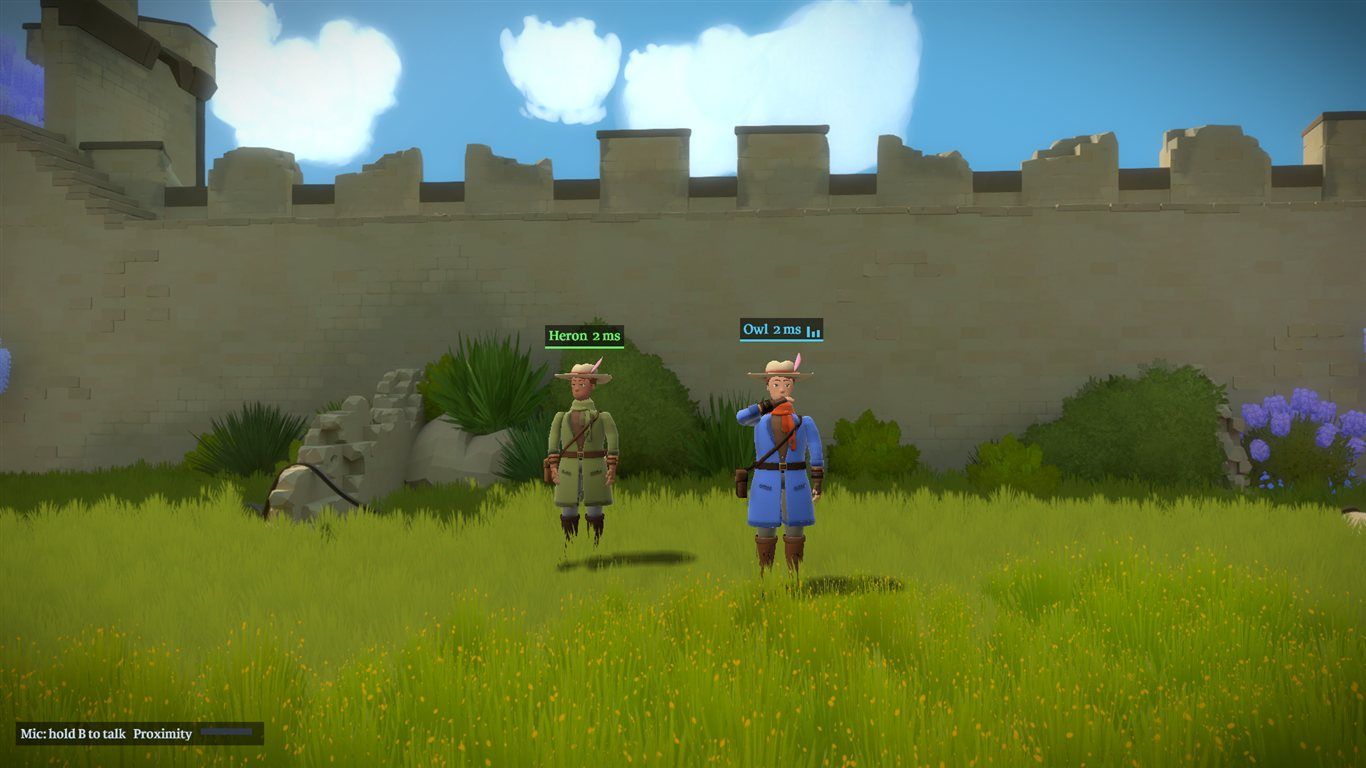
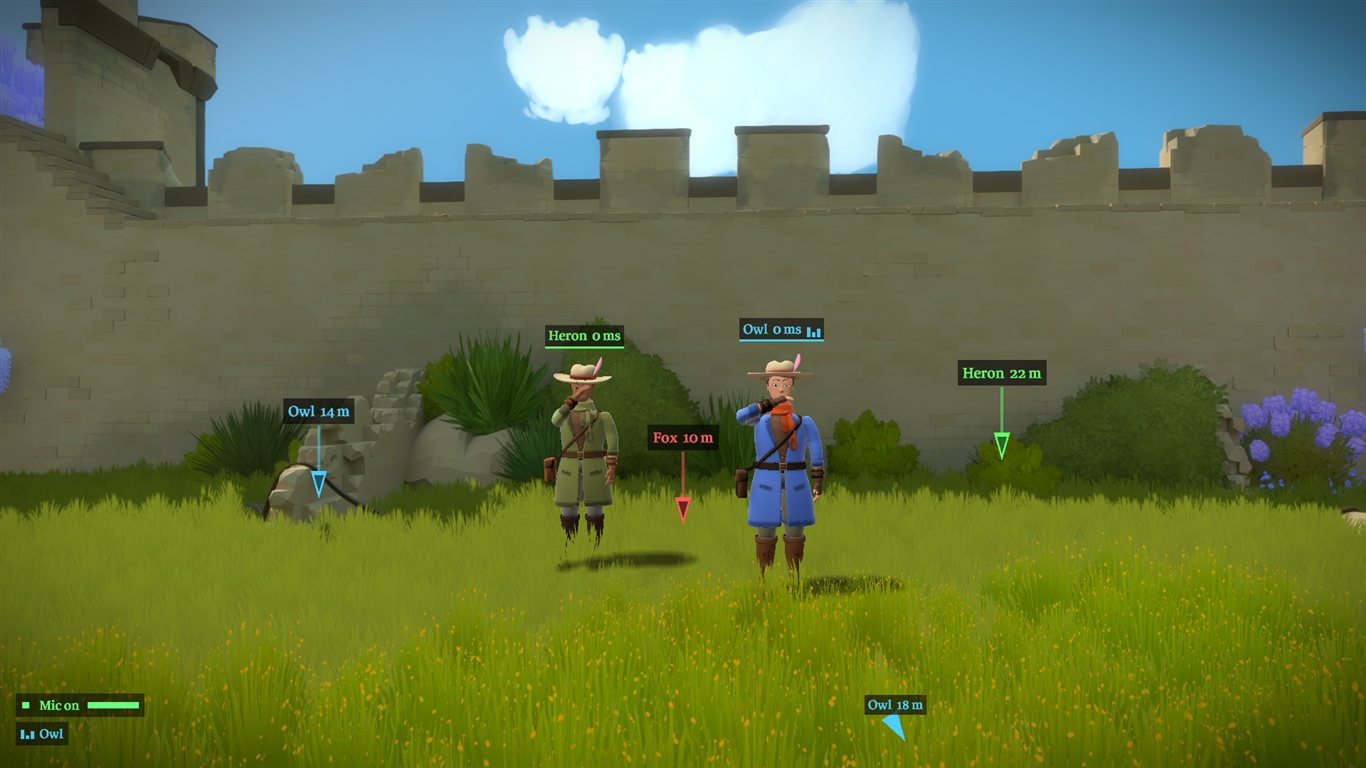
Start game stays yellow; the in-game voice display shows only what is happening
Launcher: Windows paints its own white button when a button's text is set (the lobby
relabels Start game) and when the keyboard cues change (any key press), and nothing
painted ours again (owner, 2026-11-08: still white). The button now updates with
drawing off and repaints itself. wprimary.py reads the screen itself (PrintWindow had
the window paint again and hid the white) and checks both; mutant BUTTON_SELF_PAINT.

Game: the permanent "Mic: hold B to talk" is gone. The lower left shows my microphone
while it is live (Open mic for as long as that is the mode, lit while my voice goes out;
Mic on only while push to talk is held; the channel when it is not Proximity) and a row
for each player I can hear talking (their voice reaches me: proximity or radio above a
whisper, not muted), in their colour; nothing otherwise. Rules in proxy/ui/voice_hud.h,
make -C proxy/ui test with mutants ALWAYS_HINT and HEAR_ALL; voicestat reports
hud_talkers and qa.sh voice checks the display in every phase.

Tests: since 6696901 the teleport hold let go of a player held in the air far away (the
game resets them), which broke the voice test's far placements; `hover ... firm` keeps
the old hold for those tests (voice, radio), the default still lets go (qa.sh hover).
Showcase: the camera player talks with a test voice (never this PC's microphone);
social, voice and HUD pictures retaken; captions say what the display shows.

Claude-Session: https://claude.ai/code/session_01LR8ikgw44dJVTkNefQVF8E

diff --git a/proxy/social.cpp b/proxy/social.cpp
@@ -1,5 +1,8 @@
 #include "radio/radio.h"
 #include "bindings.h"
+#include "ui/voice_hud.h"
+#include "voice/voice.h"
+std::vector<wvoice::SpeakerStat> VoiceSnapshot();      // voice_audio.cpp: what the mixer heard from each player
 // See social.h.
 #define WIN32_LEAN_AND_MEAN
 #include <windows.h>
@@ -105,7 +108,7 @@ void AddPenPoint(const float p[3], ULONGLONG now) {
     t->pts.insert(t->pts.end(), p, p + 3); g_unsent.insert(g_unsent.end(), p, p + 3); TrimPlayer(CoopMyId());
     if (g_unsent.size() >= 36 || now - g_sentAt > 120) FlushStroke(false, now);
 }
-unsigned g_speakDrawn = 0; bool g_micHudDrawn = false;      // voice: speaker marks over players and the microphone indicator drawn in the last frame (for the tests)
+unsigned g_speakDrawn = 0, g_hudTalkers = 0; bool g_micHudDrawn = false;      // voice: speaker marks over players and the microphone indicator drawn in the last frame (for the tests)
 unsigned g_dotsDrawn = 0, g_bubblesDrawn = 0, g_marksDrawn = 0, g_arrowsDrawn = 0;      // what the last frame drew (for the tests)
 
 std::string NameOf(unsigned id) {
@@ -174,6 +177,7 @@ void Bubbled(float cx, float bottom, const std::vector<std::string>& lines, bool
 
 unsigned SocialSpeakDrawn() { return g_speakDrawn; }
 bool SocialMicHudDrawn() { return g_micHudDrawn; }
+unsigned SocialHudTalkers() { return g_hudTalkers; }
 unsigned SocialInkVerts(const float cam[3], std::vector<LineVert>& out, size_t maxVerts) {      // every stroke as ribbons in the world, turned to face the camera: the line pipeline draws them hidden by walls
     Lock l; unsigned segs = 0; if (GetCfg().noDrawDraw) { g_segsDrawn = 0; return 0; }
     for (const auto& s : g_strokes) {
@@ -310,7 +314,7 @@ void SocialFrame(float W, float H, const float* cam, const float* ang) {
     }
     g_marks.erase(std::remove_if(g_marks.begin(), g_marks.end(), [&](const Mark& m) { return now - m.at > kMarkMs; }), g_marks.end());
     for (auto it = g_bubbles.begin(); it != g_bubbles.end();) { if (it->second.until < now) it = g_bubbles.erase(it); else ++it; }
-    g_dotsDrawn = g_bubblesDrawn = g_marksDrawn = g_arrowsDrawn = 0; g_speakDrawn = 0; g_micHudDrawn = false;
+    g_dotsDrawn = g_bubblesDrawn = g_marksDrawn = g_arrowsDrawn = 0; g_speakDrawn = 0; g_hudTalkers = 0; g_micHudDrawn = false;
     if (GamePaused()) return;
     float k = std::min(W / 1280.f, H / 900.f);
     memcpy(g_camNow, cam, 12); g_angNow[0] = ang[0]; g_angNow[1] = ang[1]; g_scrW = W; g_scrH = H;
@@ -376,15 +380,23 @@ void SocialFrame(float W, float H, const float* cam, const float* ang) {
         if (rp.radioTx && cfg.RadioOn()) UiText(sx + 30 * kk, sy + 4 * kk, "RADIO", Rgba(1,.7f,.3f), kk*.7f);
         UiPlayerAnchorEnd(); ++g_speakDrawn;
     }
-    if (cfg.voiceMode != 0) {      // my own microphone: what the key does, and a bar that follows the level while it is open
-        bool talk = VoiceSpeaking(); int lvl = VoiceMicLevel(); char b[80];
-        char chn[64]; VoiceChannelText(chn, sizeof chn);
-        char pre[48]; const char* padKey = PadVoiceButtonName(); std::string key = guide::DisplayKey(cfg.keyVoice ? cfg.keyVoice : cfg.keyVoiceAlt);
-        if (talk) snprintf(pre, sizeof pre, "Mic: talking"); else if (VoiceModeNow() == 2) snprintf(pre, sizeof pre, "Mic: hold %s to talk", padlayer::Hint(PadGlyphs(), key.c_str(), padKey)); else snprintf(pre, sizeof pre, "Mic: open");
-        snprintf(b, sizeof b, "%s   %s", pre, chn);
-        float tw = UiTextWidth(b, 0.8f * k), bx = 24 * k, by = H - 50 * k;
-        UiRect(bx - 6 * k, by - 4 * k, tw + 90 * k, UiLineHeight(0.8f * k) + 8 * k, Rgba(0, 0, 0, 0.5f)); UiText(bx, by, b, talk ? Rgba(0.5f, 1, 0.6f, 1) : Rgba(0.8f, 0.85f, 0.95f, 1), 0.8f * k);
-        UiRect(bx + tw + 10 * k, by + 3 * k, 60 * k, 8 * k, Rgba(0.2f, 0.22f, 0.3f, 0.9f)); UiRect(bx + tw + 10 * k, by + 3 * k, 60 * k * std::min(1.0f, lvl / 600.0f), 8 * k, talk ? Rgba(0.4f, 1, 0.5f, 1) : Rgba(0.5f, 0.55f, 0.7f, 1)); g_micHudDrawn = true;
+    {   // the voice display, lower left: my microphone while it is live and the players I can hear talking; nothing when nothing happens (ui/voice_hud.h)
+        bool talk = VoiceSpeaking(); char chn[64]; VoiceChannelText(chn, sizeof chn); std::vector<wvhud::Heard> heard;
+        for (const auto& s : VoiceSnapshot()) { wvhud::Heard h; h.id = s.id; h.name = NameOf(s.id); h.talking = s.talking; h.prox = s.prox; h.radio = s.radio; h.playerVolume = VoiceGetPlayerVolume(s.id); heard.push_back(h); }
+        std::vector<wvhud::Row> rows = wvhud::Rows(cfg.voiceMode != 0 ? VoiceModeNow() : 0, talk, chn, heard);
+        float sk = 0.8f * k, lh = UiLineHeight(sk), bx = 24 * k, by = H - 50 * k; int lvl = VoiceMicLevel();
+        for (size_t n = rows.size(); n-- > 0; by -= lh + 14 * k) {      // bottom up: my microphone lowest, the players above it
+            const wvhud::Row& r = rows[n]; float tw = UiTextWidth(r.text.c_str(), sk), lead = 22 * k, extra = r.me ? 70 * k : 0;
+            UiRect(bx - 6 * k, by - 4 * k, lead + tw + extra + 12 * k, lh + 8 * k, Rgba(0, 0, 0, 0.5f));
+            if (r.me) {      // a dot for the microphone (green while my voice goes out), the text, and the level while it is live
+                auto c = r.lit ? Rgba(0.4f, 1, 0.5f, 1) : Rgba(0.8f, 0.85f, 0.95f, 1); UiRect(bx + 2 * k, by + lh / 2 - 4 * k, 8 * k, 8 * k, c); UiText(bx + lead, by, r.text.c_str(), c, sk);
+                float lx = bx + lead + tw + 10 * k; UiRect(lx, by + lh / 2 - 4 * k, 60 * k, 8 * k, Rgba(0.2f, 0.22f, 0.3f, 0.9f)); UiRect(lx, by + lh / 2 - 4 * k, 60 * k * std::min(1.0f, lvl / 600.0f), 8 * k, c); g_micHudDrawn = true;
+            } else {      // three bars moving in the player's colour, then the name
+                float col[3]; PlayerColor(r.id, col);
+                for (int b = 0; b < 3; ++b) { float ph = float(now % 500) / 500.0f * 6.2831853f + b * 2.1f, hgt = (4 + 8 * (0.5f + 0.5f * sinf(ph))) * k; UiRect(bx + b * 6 * k, by + lh / 2 + 6 * k - hgt, 4 * k, hgt, Rgba(col[0], col[1], col[2], 0.95f)); }
+                UiText(bx + lead, by, r.text.c_str(), Rgba(col[0], col[1], col[2], 1), sk); ++g_hudTalkers;
+            }
+        }
     }
     for (const auto& rp : rem) {      // the name of the emote a player is playing, over their head
         auto it = g_remoteEmotes.find(rp.id); if (it == g_remoteEmotes.end() || !it->second.id || !EmoteAlive(it->second.id,now-it->second.start) || rp.ageMs > 2000) continue;

diff --git a/tools/win/wvoice.py b/tools/win/wvoice.py
@@ -34,6 +34,7 @@ def vstat(d):
     if not b: return None
     m = re.match(r'voicestat: mode (\d) ptt (\d+) transmitting (\d+) sent (\d+) captured (\d+) received (\d+) played (\d+) game_volume ' + F + r' hud_speakers (\d+) hud_mic (\d)(?: channel (\w+) to (\d+))?', b[0])
     r = dict(mode=int(m[1]), ptt=int(m[2]), transmitting=int(m[3]), sent=int(m[4]), received=int(m[6]), game_volume=float(m[8]), hud_speakers=int(m[9]), hud_mic=int(m[10]), channel=m[11], to=int(m[12] or 0), sp={})
+    t = re.search(r'hud_talkers (\d+)', b[0]); r['hud_talkers'] = int(t[1]) if t else -1      # players listed in the voice display (who I hear talking)
     for l in b[1:]:
         m = re.match(r'voicestat: speaker (\d+) talking (\d) prox ' + F + ' radio ' + F + ' pan ' + F + ' rms ' + F + ' tone ' + F + ' ' + F + ' ' + F + r' packets (\d+) concealed (\d+) dropped (\d+)(?: channel (\d+))?', l)
         r['sp'][int(m[1])] = dict(talking=int(m[2]), prox=float(m[3]), radio=float(m[4]), pan=float(m[5]), rms=float(m[6]), tone=[float(m[7]), float(m[8]), float(m[9])], packets=int(m[10]), concealed=int(m[11]), channel=int(m[13] or 0))
@@ -57,7 +58,7 @@ def expect(d, beta):
 def place(d, beta_deg):
     """B stays; A is put d metres from B at beta degrees to B's right; the real positions and heading are read back from both games"""
     (bx, by, bz), (bth, bph) = B.camera(); beta = math.radians(beta_deg); ang = bth - beta
-    send(da, ['hover %.3f %.3f %.3f %.4f 0' % (bx + d * math.cos(ang), by + d * math.sin(ang), bz, bth)], 3.0)      # held in the air where it is put: no ground is needed that far away
+    send(da, ['hover %.3f %.3f %.3f %.4f 0 firm' % (bx + d * math.cos(ang), by + d * math.sin(ang), bz, bth)], 3.0)      # held in the air where it is put: no ground is needed that far away
     (ax, ay, az), _ = A.camera(); (bx, by, bz), (bth, bph) = B.camera()
     dx, dy, dz = ax - bx, ay - by, az - bz; dist = math.sqrt(dx * dx + dy * dy + dz * dz)
     bearing = math.atan2(dx * math.sin(bth) - dy * math.cos(bth), dx * math.cos(bth) + dy * math.sin(bth))
@@ -72,6 +73,8 @@ if mode == 'open':
     check('   no radio yet, and the voice is to the right', sp and sp['radio'] == 0 and abs(sp['pan'] - e[2]) < 0.08 and sp['pan'] > 0.5, sp and (sp['radio'], round(sp['pan'], 2), round(e[2], 2)))
     check('   the whole voice is there (120 Hz, 1 kHz, 5.5 kHz) and loud enough', sp and sp['tone'][0] > 0.01 and sp['tone'][1] > 0.01 and sp['tone'][2] > 0.4 * sp['tone'][1] and sp['rms'] > 0.01, sp and ([round(t, 3) for t in sp['tone']], round(sp['rms'], 3)))
     check('   B sees A as speaking (the flag in A\'s presence)', speaking_seen_by_b() == 1)
+    sa = vstat(da)
+    check('   the voice display: B lists A as talking (B\'s own voice is off: no microphone row); A shows its open mic', s and s['hud_talkers'] == 1 and s['hud_mic'] == 0 and sa and sa['hud_mic'] == 1 and sa['hud_talkers'] == 0, s and sa and (s['hud_talkers'], s['hud_mic'], sa['hud_mic'], sa['hud_talkers']))
     d, beta = place(12.0, -90); time.sleep(1.5); s = vstat(db); e = expect(d, beta); sp = s['sp'].get(1) if s else None
     check('2. 12 m to the left: quieter and in the left ear', sp and abs(sp['prox'] - e[0]) < 0.03 and sp['pan'] < -0.5 and sp['radio'] == 0, sp and (round(sp['prox'], 3), round(e[0], 3), round(sp['pan'], 2), 'd=%.2f' % d))
     d, beta = place(28.0, 0); time.sleep(1.5); s = vstat(db); e = expect(d, beta); sp = s['sp'].get(1) if s else None
@@ -84,6 +87,7 @@ if mode == 'open':
     if RADIO_RANGE > 0:
         d, beta = place(RADIO_RANGE * 1.6, 0); time.sleep(1.5); s = vstat(db); sp = s['sp'].get(1) if s else None; e = expect(d, beta)
         check('5. beyond the radio range (%d m) nothing is heard' % RADIO_RANGE, sp and sp['radio'] < 0.02 and sp['prox'] == 0, sp and (round(sp['radio'], 3), 'd=%.1f' % d))
+        check('   and B\'s voice display lists nobody (A talks, out of earshot)', s and s['hud_talkers'] == 0, s and s['hud_talkers'])
 elif mode == 'channels':
     def hear(label, want_channel, d_m, **kw):
         """what B's mixer makes of A: its channel, the gains, the pan and the tones, at d_m metres"""
@@ -116,13 +120,19 @@ else:
     d, beta = place(5.0, 90); time.sleep(1.0); s0 = vstat(db); sp = s0['sp'].get(1) if s0 else None
     check('1. push to talk, key not held: nothing is sent', not sp or (sp['talking'] == 0 and sp['packets'] == 0), sp and (sp['talking'], sp['packets']))
     check('   and B does not see A as speaking', speaking_seen_by_b() in (0, None))
+    sa = vstat(da)
+    check('   the voice display shows nothing: no "hold B to talk" on A, nobody listed on B', sa and sa['hud_mic'] == 0 and sa['hud_talkers'] == 0 and s0 and s0['hud_talkers'] == 0, sa and s0 and (sa['hud_mic'], sa['hud_talkers'], s0['hud_talkers']))
     send(da, ['key B down'], 1.2); s1 = vstat(db); sp = s1['sp'].get(1) if s1 else None
     check('2. key B held: B hears A', sp and sp['talking'] == 1 and sp['packets'] > 20, sp and (sp['talking'], sp['packets']))
     check('   B sees A as speaking', speaking_seen_by_b() == 1)
+    sa = vstat(da)
+    check('   while the key is held: A shows Mic on, B lists A', sa and sa['hud_mic'] == 1 and s1 and s1['hud_talkers'] == 1, sa and s1 and (sa['hud_mic'], s1['hud_talkers']))
     send(da, ['key B up'], 1.5); s2 = vstat(db); sp2 = s2['sp'].get(1) if s2 else None
     check('3. key released: the transmission ends, B stops hearing A and the speaking flag drops', sp2 and sp2['talking'] == 0 and speaking_seen_by_b() == 0, sp2 and sp2['talking'])
     p1 = sp2['packets'] if sp2 else 0; time.sleep(1.0); s3 = vstat(db)
     check('   and nothing more arrives', s3 and s3['sp'][1]['packets'] == p1, s3 and (s3['sp'][1]['packets'], p1))
+    sa = vstat(da)
+    check('   released: the display is empty again on both', sa and sa['hud_mic'] == 0 and s3 and s3['hud_talkers'] == 0, sa and s3 and (sa['hud_mic'], s3['hud_talkers']))
 if mode == 'open':
     s = vstat(db)
     if s and s['game_volume'] >= 0: check('6. game_volume is set on the game\'s Windows audio session (read back from the system)', abs(s['game_volume'] - GV) < 0.02, s['game_volume'])

diff --git a/tools/win/wprimary.py b/tools/win/wprimary.py
@@ -1,6 +1,7 @@
 # T2 check, Windows Python: the page's main button keeps its look when the focus moves. Host by the mouse as a player does (Play, Host, Direct, a click on
 # Open lobby, posted to the buttons: the real pointer is not used), then, without hovering anything, Start game must be drawn in the main buttons' yellow.
-# The click gives Open lobby the focus and the dialog keys move the default-button style to it (owner, 2026-11-08: Start game white until hovered).
+# The click gives Open lobby the focus and the dialog keys move the default-button style to it; a new label (WM_SETTEXT) and the keyboard cues (WM_UPDATEUISTATE)
+# make Windows paint its own white button over ours (owner, 2026-11-08: Start game white until hovered). Read from the screen: the window is put on top for a moment.
 # usage: wprimary.py <launcher exe> <folder>      (the folder gets a witness_coop.cfg for a Direct lobby on a free port)
 import ctypes, ctypes.wintypes as wt, os, struct, subprocess, sys, time
 exe, d = sys.argv[1], sys.argv[2]
@@ -32,12 +33,14 @@ def child(top, text):
         return True
     u.EnumChildWindows(top, cb, 0); return out[0] if out else None
 def click(h): u.PostMessageW(h, 0x0201, 1, 0x000a000a); time.sleep(0.05); u.PostMessageW(h, 0x0202, 0, 0x000a000a)
-def pixel(top, ctl, dx, dy):      # the window as it is on screen (PrintWindow, full content), at a point of the control
-    wr = wt.RECT(); u.GetWindowRect(top, ctypes.byref(wr)); w, hh = wr.right - wr.left, wr.bottom - wr.top
-    dc = u.GetWindowDC(top); mdc = g32.CreateCompatibleDC(dc); bmp = g32.CreateCompatibleBitmap(dc, w, hh); g32.SelectObject(mdc, bmp); u.PrintWindow(top, mdc, 2)
-    hdr = struct.pack('<IiiHHIIiiII', 40, w, -hh, 1, 32, 0, w * hh * 4, 0, 0, 0, 0); buf = ctypes.create_string_buffer(w * hh * 4); g32.GetDIBits(mdc, bmp, 0, hh, buf, hdr, 0)
-    g32.DeleteObject(bmp); g32.DeleteDC(mdc); u.ReleaseDC(top, dc)
-    r = wt.RECT(); u.GetWindowRect(ctl, ctypes.byref(r)); i = ((r.top - wr.top + dy) * w + r.left - wr.left + dx) * 4; return buf.raw[i + 2], buf.raw[i + 1], buf.raw[i]
+u.SetWindowPos.argtypes = [wt.HWND, wt.HWND, ctypes.c_int, ctypes.c_int, ctypes.c_int, ctypes.c_int, wt.UINT]; g32.GetPixel.argtypes = [wt.HDC, ctypes.c_int, ctypes.c_int]; g32.GetPixel.restype = wt.DWORD
+u.SendMessageW.argtypes = [wt.HWND, wt.UINT, wt.WPARAM, ctypes.c_void_p]
+def pixel(top, ctl, dx, dy):      # the pixel on the screen itself, the window on top for that moment (PrintWindow asks the window to paint again and hides what Windows drew over it)
+    u.SetWindowPos(top, wt.HWND(-1), 0, 0, 0, 0, 0x0001 | 0x0002 | 0x0010); time.sleep(0.4)
+    r = wt.RECT(); u.GetWindowRect(ctl, ctypes.byref(r)); dc = u.GetDC(None); c = g32.GetPixel(dc, r.left + dx, r.top + dy); u.ReleaseDC(None, dc)
+    u.SetWindowPos(top, wt.HWND(-2), 0, 0, 0, 0, 0x0001 | 0x0002 | 0x0010)
+    return c & 255, (c >> 8) & 255, (c >> 16) & 255
+def yellow(c): return c and c[0] > 200 and c[1] > 150 and c[2] < 130
 ok = True
 def check(name, cond, detail=''):
     global ok; ok = ok and bool(cond); print('CHECK %s %s | %s' % ('ok' if cond else 'FAILED', name, detail), flush=True)
@@ -52,7 +55,13 @@ try:
     st = child(top, 'Start game'); lobby = open(sp, errors='ignore').read() if os.path.exists(sp) else ''
     check('hosting after clicking Direct and Open lobby', 'lobby active 1 host 1' in lobby, [l for l in lobby.splitlines() if l.startswith('lobby ')])
     c = st and pixel(top, st, 10, 6)
-    check('Start game is drawn yellow (the main button) without being hovered', c and c[0] > 200 and c[1] > 150 and c[2] < 130, c)
+    check('Start game is drawn yellow (the main button) without being hovered', yellow(c), c)
+    if st: u.SendMessageW(st, 0x000C, 0, ctypes.c_wchar_p('Start game')); time.sleep(0.3)      # WM_SETTEXT: the lobby relabels it (Waiting for ..., Start game)
+    c = st and pixel(top, st, 10, 6)
+    check('   still yellow after its label is set again (Windows paints its own white button for that)', yellow(c), c)
+    if st: u.SendMessageW(st, 0x0128, (0x2 << 16) | 1, None); time.sleep(0.3)      # WM_UPDATEUISTATE: the keyboard cues, sent to every control when a key is used
+    c = st and pixel(top, st, 10, 6)
+    check('   still yellow after the keyboard cues change (a key press)', yellow(c), c)
 finally:
     p.kill()
 print('ALL OK' if ok else 'FAILED'); sys.exit(0 if ok else 1)

diff --git a/proxy/game.cpp b/proxy/game.cpp
@@ -205,7 +205,7 @@ static DWORD WINAPI CmdThread(LPVOID) {
                 else { EnterCriticalSection(&g_lock); if (g_n < 64) g_q[g_n++] = {9, 0, 0, 0, 0, false, 0, 0, 0}; LeaveCriticalSection(&g_lock); }
             }
             else if (!strncmp(line, "hover off", 9)) GameHoverOff();
-            else if (!strncmp(line, "hover ", 6)) { float f[5]; if (sscanf(line, "hover %f %f %f %f %f", &f[0], &f[1], &f[2], &f[3], &f[4]) == 5) GameHover(f[0], f[1], f[2], f[3], f[4], 600); }
+            else if (!strncmp(line, "hover ", 6)) { float f[5]; if (sscanf(line, "hover %f %f %f %f %f", &f[0], &f[1], &f[2], &f[3], &f[4]) == 5) GameHover(f[0], f[1], f[2], f[3], f[4], 600, strstr(line, " firm") != nullptr); }      // "... firm": held through the game's resets (a test far from any ground: voice, radio)
             else if (!strncmp(line, "tp ", 3)) { Tp t = {}; if (sscanf(line, "tp %f %f %f %f %f", &t.v[0], &t.v[1], &t.v[2], &t.v[3], &t.v[4]) == 5) { t.frames = 12; EnterCriticalSection(&g_lock); g_tp = t; g_tpOn = true; LeaveCriticalSection(&g_lock); } }
             else if (!strncmp(line, "stats", 5)) { char m[160]; snprintf(m, sizeof m, "input: posted %u answered %u | GetRawInputData calls: real handles %u, ours %u", InputStats(0), InputStats(1), InputStats(2), InputStats(3)); Log(m); }
             else if (sscanf(line, "button %15s %15s", a, b) == 2) { bool left = !_stricmp(a, "L"), dn = !_stricmp(b, "down"); Cmd c = {2, 0, 0, 0, 0, false, 0, 0, left ? (dn ? 0x1u : 0x2u) : (dn ? 0x4u : 0x8u)}; EnterCriticalSection(&g_lock); if (g_n < 64) g_q[g_n++] = c; LeaveCriticalSection(&g_lock); }
@@ -375,7 +375,7 @@ void GameEnqueueCableOff(unsigned id) {
 // not enough. This thread writes the player's position about every millisecond until it is switched off (hover off, another teleport, a
 // real W/A/S/D press, or the time limit), which holds the player where it was put. Angles are not written: mouse look still works.
 static bool OwnForeground() { DWORD p = 0; GetWindowThreadProcessId(GetForegroundWindow(), &p); return p == GetCurrentProcessId(); }      // a real key press only counts while this game has the focus (bots inject input, and never touch it)
-static volatile LONG g_hovOn, g_hovGen; static float g_hov[3]; static volatile DWORD g_hovUntil;
+static volatile LONG g_hovOn, g_hovGen, g_hovFirm; static float g_hov[3]; static volatile DWORD g_hovUntil;
 static DWORD WINAPI HoverThread(LPVOID) {
     SetThreadPriority(GetCurrentThread(), THREAD_PRIORITY_ABOVE_NORMAL);
     DWORD checked = 0; volatile float* fp = nullptr; LONG gen = -1; bool placed = false; float drift = 0; unsigned long long spins = 0, seen = 0;
@@ -397,14 +397,15 @@ static DWORD WINAPI HoverThread(LPVOID) {
         // (exe+0x2D03EC, seen twice on 2026-11-07). The hold only lets the game change the height (its snap to the ground); once the player has
         // been placed, a sideways move of more than 1.5 m is the game moving the player (to the nearest reset marker, often a few metres away): let go.
         if (fp && placed) { float d = fmaxf(fabsf(fp[0] - g_hov[0]), fabsf(fp[1] - g_hov[1])); if (d > drift) drift = d; if (d > 0.01f) ++seen; }
-        if (fp && placed && !GetCfg().hoverFightsReset && (fabsf(fp[0] - g_hov[0]) > 1.5f || fabsf(fp[1] - g_hov[1]) > 1.5f)) {
+        if (fp && placed && !GetCfg().hoverFightsReset && !g_hovFirm && (fabsf(fp[0] - g_hov[0]) > 1.5f || fabsf(fp[1] - g_hov[1]) > 1.5f)) {
             g_hovOn = 0; Log("game: hover off (the game reset the player)"); continue;
         }
         if (fp) { fp[0] = g_hov[0]; fp[1] = g_hov[1]; fp[2] = g_hov[2] - 1.69f; placed = true; ++spins; }
         YieldProcessor();
     }
 }
-void GameHover(float x, float y, float z, float yaw, float pitch, unsigned seconds) {
+void GameHover(float x, float y, float z, float yaw, float pitch, unsigned seconds, bool firm) {
+    InterlockedExchange(&g_hovFirm, firm ? 1 : 0);
     if (GetCfg().noTeleportHold) { GameTeleport(x, y, z + 8.0f, yaw, pitch); return; }      // twin: the old drop from above
     static bool started; if (!started) { started = true; CreateThread(nullptr, 0, HoverThread, nullptr, 0, nullptr); }
     g_hov[0] = x; g_hov[1] = y; g_hov[2] = z; g_hovUntil = GetTickCount() + seconds * 1000; InterlockedIncrement(&g_hovGen); InterlockedExchange(&g_hovOn, 1);

diff --git a/tools/win/wshowcase.py b/tools/win/wshowcase.py
@@ -179,18 +179,18 @@ def draw_scene(vi):
 
 def voice_scene(vi):
     """Voice: the even players talk (a test voice instead of a microphone); their speaking marks show beside their heads, and the microphone line at the bottom left."""
-    V = games[vi]; lineup(vi, None, None); time.sleep(1.5)
-    snap(V, 'voice', 'Voice chat: moving bars beside the head of every player who is talking, the microphone line at the bottom left (hold B to talk). Near players are heard in the world, far ones over the radio.')
+    V = games[vi]; lineup(vi, None, None); time.sleep(1.5); V.send(['key B down'], 1.2)      # the camera player talks too (push to talk, a test voice): its microphone row shows
+    snap(V, 'voice', 'Voice chat: moving bars beside the head of every player who is talking; at the bottom left, your microphone while it is on and the players you can hear talking (nothing there when nobody talks). Near players are heard in the world, far ones over the radio.')
     for ch, name, what in (('global', 'voice_global', 'Open line: everybody hears you as you sound, as loud far away as next to you.'), ('direct:2', 'voice_direct', 'One on one: only that player hears you (the voice is not sent to anybody else); the label names them.')):
-        V.send(['voicechannel ' + ch], 1.5); snap(V, name, 'Voice channel (Y steps through them; the label is in the microphone line at the bottom left). ' + what)
-    V.send(['voicechannel proximity'], 0.5)
+        V.send(['voicechannel ' + ch], 1.5); snap(V, name, 'Voice channel (Y steps through them; your microphone row at the bottom left names it while you talk). ' + what)
+    V.send(['key B up', 'voicechannel proximity'], 0.5)
 
 def look_scene(vi):
     """The co-op text in the game's own face: the player strip with a notice and chat lines, the hold-Tab panel, a chat line being typed, the emote wheel, the quick guide."""
     V = games[vi]; lineup(vi, None, None); others = [g for k, g in enumerate(games) if k != vi]
     V.send(['key TAB down'], 0.9); snap(V, 'ui_panel', 'The player panel (hold Tab): colour, name, ping, speaking light and distance per player, with Watch, Mute and volume buttons, then voice volume, name tags, partner picture and Leave.'); V.send(['key TAB up'], 0.5)
     for k, g in enumerate(others): g.send(['chat ' + MESSAGES[k % len(MESSAGES)]])
-    V.send(['notice Fox joined'], 1.0); snap(V, 'ui_hud', 'The co-op text in the font of the game: a notice, chat lines over the players who spoke and in the log at the bottom left, name tags with pings, the microphone line.')
+    V.send(['notice Fox joined'], 1.0); snap(V, 'ui_hud', 'The co-op text in the font of the game: a notice, chat lines over the players who spoke and in the log at the bottom left, name tags with pings, and at the bottom left the players you can hear talking.')
     V.key('T', 0.1, 0.4); V.send(['typetext Meet me at the gate?'], 0.5); snap(V, 'ui_chat', 'Typing a chat line (T).'); V.key('ENTER', 0.1, 0.6)
     V.send(['key F1 down'], 0.9); snap(V, 'ui_guide', 'The quick guide (hold F1): the keys as they are bound now.'); V.send(['key F1 up'], 0.5)
 

diff --git a/proxy/ui/voice_hud.h b/proxy/ui/voice_hud.h
@@ -1,0 +1,32 @@
+#pragma once
+// The voice display in the game's lower left (owner, 2026-11-08: no permanent "hold B to talk"): only what is happening, nothing at all otherwise.
+//   my microphone, while it is live: open mic shows "Open mic" for as long as that is the mode (the microphone is on), lit while my voice goes out;
+//                                    push to talk shows "Mic on" only while I talk; no row with voice off
+//   a row for each player I can hear right now: talking, and their voice reaches me (proximity or radio above a whisper, not muted by me), in their colour
+// Pure: the drawing is proxy/social.cpp; game-free test proxy/ui/voice_hud_test.cpp (make -C proxy/ui test).
+#include <string>
+#include <vector>
+
+namespace wvhud {
+struct Heard { unsigned id = 0; std::string name; bool talking = false; float prox = 0, radio = 0, playerVolume = 1; };
+struct Row { bool me = false; unsigned id = 0; std::string text; bool lit = false; };
+constexpr float kAudible = 0.02f;      // a mixer gain below this is not heard (the fade at the edge of the range)
+// mode: 0 voice off, 1 open mic, 2 push to talk (VoiceModeNow); channel: what I talk on ("Proximity" is the usual one and is not named)
+inline std::vector<Row> Rows(int mode, bool transmitting, const std::string& channel, const std::vector<Heard>& heard) {
+    std::vector<Row> r;
+#ifdef VH_MUT_ALWAYS_HINT
+    if (mode == 2 && !transmitting) r.push_back({true, 0, "Mic: hold to talk", false});      // (mutant: the old permanent hint)
+#endif
+    if (mode == 1) r.push_back({true, 0, "Open mic", transmitting});
+    else if (mode == 2 && transmitting) r.push_back({true, 0, "Mic on", true});
+    if (!r.empty() && r.back().me && !channel.empty() && channel != "Proximity") r.back().text += "  -  " + channel;
+    for (const auto& h : heard) {
+        if (!h.talking || h.playerVolume <= 0) continue;
+#ifndef VH_MUT_HEAR_ALL
+        if (h.prox < kAudible && h.radio < kAudible) continue;      // talking, but too far to reach me
+#endif
+        r.push_back({false, h.id, h.radio > h.prox ? h.name + "  (radio)" : h.name, true});
+    }
+    return r;
+}
+}  // namespace wvhud

diff --git a/proxy/voice_audio.cpp b/proxy/voice_audio.cpp
@@ -207,9 +207,9 @@ void VoicePlayerVolume(unsigned id, float volume) { if (!g_lkInit) return; Lock 
 bool VoiceSpeaking() { return g_transmitting != 0 && !GetCfg().noSpeakingFlag; }
 int VoiceMicLevel() { return (int)g_micLevel; }
 void VoiceStat() {
-    char m[420]; const Cfg& c = GetCfg();
+    char m[460]; const Cfg& c = GetCfg();
     unsigned steps = 0, stepsDropped = 0; float stepPeak = 0, stepDist = -1; { Lock l; steps = g_foley.played; stepsDropped = g_foley.dropped; stepPeak = g_foley.TakePeak(&stepDist); }
-    snprintf(m, sizeof m, "voicestat: mode %d ptt %ld transmitting %ld sent %ld captured %ld received %ld played %ld game_volume %.2f hud_speakers %u hud_mic %d channel %s to %u footsteps %u footsteps_dropped %u effective %d step_peak %.4f step_dist %.2f", c.voiceMode, g_ptt, g_transmitting, g_sent, g_captured, g_received, g_played, g_gameVolumeRead, SocialSpeakDrawn(), SocialMicHudDrawn() ? 1 : 0, wvoice::ChannelName(g_channel), g_to, steps, stepsDropped, VoiceModeNow(), stepPeak, stepDist); Log(m);
+    snprintf(m, sizeof m, "voicestat: mode %d ptt %ld transmitting %ld sent %ld captured %ld received %ld played %ld game_volume %.2f hud_speakers %u hud_mic %d channel %s to %u footsteps %u footsteps_dropped %u effective %d step_peak %.4f step_dist %.2f hud_talkers %u", c.voiceMode, g_ptt, g_transmitting, g_sent, g_captured, g_received, g_played, g_gameVolumeRead, SocialSpeakDrawn(), SocialMicHudDrawn() ? 1 : 0, wvoice::ChannelName(g_channel), g_to, steps, stepsDropped, VoiceModeNow(), stepPeak, stepDist, SocialHudTalkers()); Log(m);
     if (!g_lkInit) return; Lock l;
     for (const auto& s : g_mixer.Stats()) { snprintf(m, sizeof m, "voicestat: speaker %u talking %d prox %.3f radio %.3f pan %.3f rms %.4f tone %.4f %.4f %.4f packets %u concealed %u dropped %u channel %u", s.id, s.talking ? 1 : 0, s.prox, s.radio, s.pan, s.rms, s.tone[0], s.tone[1], s.tone[2], s.packets, s.concealed, s.dropped, (unsigned)s.channel); Log(m); }
 }

diff --git a/proxy/ui/voice_hud_test.cpp b/proxy/ui/voice_hud_test.cpp
@@ -1,0 +1,19 @@
+// The voice display's rules (voice_hud.h), game-free. Mutants: VH_MUT_ALWAYS_HINT (the old permanent push-to-talk hint), VH_MUT_HEAR_ALL (players out of earshot listed).
+#include "voice_hud.h"
+#include <cstdio>
+static int failures;
+static void check(bool ok, const char* what) { if (!ok) { std::printf("FAILED: %s\n", what); ++failures; } }
+int main() {
+    using namespace wvhud;
+    Heard far{2, "Owl", true, 0.0f, 0.0f}, near{3, "Fox", true, 0.4f, 0.0f}, radio{4, "Wren", true, 0.0f, 0.6f}, quiet{5, "Moth", false, 0.5f, 0.0f}, muted{6, "Lynx", true, 0.5f, 0.0f, 0.0f};
+    check(Rows(2, false, "Proximity", {}).empty(), "push to talk, not talking, nobody talking: nothing at all");
+    check(Rows(0, false, "Proximity", {}).empty(), "voice off, nobody talking: nothing");
+    auto r = Rows(2, true, "Proximity", {}); check(r.size() == 1 && r[0].me && r[0].lit && r[0].text == "Mic on", "push to talk while talking: Mic on, lit");
+    r = Rows(1, false, "Proximity", {}); check(r.size() == 1 && r[0].me && !r[0].lit && r[0].text == "Open mic", "open mic: shown while it is the mode, not lit when silent");
+    r = Rows(1, true, "Proximity", {}); check(r.size() == 1 && r[0].lit, "open mic: lit while my voice goes out");
+    r = Rows(2, true, "Radio", {}); check(r.size() == 1 && r[0].text == "Mic on  -  Radio", "another channel than proximity is named");
+    r = Rows(2, false, "Proximity", {far, near, radio, quiet, muted});
+    check(r.size() == 2 && !r[0].me && r[0].id == 3 && r[0].text == "Fox" && r[1].id == 4 && r[1].text == "Wren  (radio)", "only players talking whose voice reaches me (not out of range, not silent, not muted), radio marked");
+    r = Rows(0, false, "Proximity", {near}); check(r.size() == 1 && r[0].id == 3, "voice off for me: I still see who I hear");
+    std::printf("%s\n", failures ? "FAILED" : "voice hud: ALL OK"); return failures ? 1 : 0;
+}

diff --git a/launcher/theme.cpp b/launcher/theme.cpp
@@ -247,6 +247,11 @@ static LRESULT CALLBACK ButtonProc(HWND h, UINT m, WPARAM w, LPARAM l, UINT_PTR,
     case WM_MOUSEMOVE: if (!GetPropW(h, L"hot")) { SetPropW(h, L"hot", (HANDLE)1); TRACKMOUSEEVENT t = {sizeof t, TME_LEAVE, h, 0}; TrackMouseEvent(&t); InvalidateRect(h, nullptr, FALSE); TraceUpdate(h); } break;
     case WM_MOUSELEAVE: SetPropW(h, L"hot", nullptr); InvalidateRect(h, nullptr, FALSE); TraceUpdate(h); break;
     case WM_LBUTTONDOWN: case WM_LBUTTONUP: case BM_SETCHECK: case BM_SETSTYLE: case BM_SETSTATE: case WM_ENABLE: case WM_SETFOCUS: case WM_KILLFOCUS: { LRESULT r = DefSubclassProc(h, m, w, l); InvalidateRect(h, nullptr, FALSE); TraceUpdate(h); return r; }      // (Windows paints the button itself on these: ours again after)
+#ifndef WL_MUT_BUTTON_SELF_PAINT
+    case WM_SETTEXT: case WM_UPDATEUISTATE: {      // Windows paints its own (white) button for these at once and nothing repaints ours (owner, 2026-11-08: Start game white after a label change or a key press): no drawing while it updates, then ours
+        bool vis = (GetWindowLongW(h, GWL_STYLE) & WS_VISIBLE) != 0; if (vis) DefSubclassProc(h, WM_SETREDRAW, FALSE, 0);
+        LRESULT r = DefSubclassProc(h, m, w, l); if (vis) DefSubclassProc(h, WM_SETREDRAW, TRUE, 0); InvalidateRect(h, nullptr, FALSE); return r; }
+#endif
     case WM_TIMER: if (w == kTraceTimer) { InvalidateRect(h, nullptr, FALSE); if (TraceProgress(h) >= 1) KillTimer(h, kTraceTimer); return 0; } break;
     case WM_PAINT: {
         PAINTSTRUCT ps; HDC dc = BeginPaint(h, &ps); RECT rc; GetClientRect(h, &rc);

diff --git a/tools/showcase.py b/tools/showcase.py
@@ -29,7 +29,8 @@ def prepare(c, config):
         gs.replace_copy(Path(ROOT) / 'assets/models' / name, models / name)
     config += 'name=%s\nforce_active=1\ncap_fps=30\ndev_menu=1\nvoice_mute_output=1\n' % (NAMES[(c.id - 1) % len(NAMES)],)
     config += ''.join('appearance_%s=%d\n' % (f, v) for f, v in zip(FEATURES, LOOKS[(c.id - 1) % len(LOOKS)]))
-    config += 'voice_mode=open\nvoice_test_tone=300,900,1700\n' if c.id % 2 == 0 else 'voice_mode=%s\n' % ('off' if c.id == 1 and os.environ.get('SHOWCASE_QUIET_CAMERA') else 'ptt')      # the even players are talking (a test voice: no microphone is needed); a quiet camera has no mic line
+    config += 'voice_mode=open\nvoice_test_tone=300,900,1700\n' if c.id % 2 == 0 else 'voice_mode=%s\n' % ('off' if c.id == 1 and os.environ.get('SHOWCASE_QUIET_CAMERA') else 'ptt')
+    if c.id == 1: config += 'voice_test_tone=220,660\n'      # the camera player talks in the voice pictures (holding B) with a test voice, never this PC's microphone      # the even players are talking (a test voice: no microphone is needed); a quiet camera has no mic line
     config += os.environ.get('SHOWCASE_CFG_EXTRA', '').replace('\\n', '\n') + '\n'      # e.g. the race: SHOWCASE_CFG_EXTRA='game_mode=race\\nrace_goal=count:3\\nrace_countdown_ms=60000' tools/showcase.sh 2 race
     cfg = d / 'witness_coop.cfg'; cfg.unlink(missing_ok=True); cfg.write_text(config)
     for name in ('witness_cmd.txt', 'witness_proxy.log', 'witness_net.json'): (d / name).unlink(missing_ok=True)

diff --git a/tools/win/wradio.py b/tools/win/wradio.py
@@ -66,7 +66,7 @@ try:
             check(not entry(snapshot(b, db), 'remotes', 1).get('equipped') and not entry(snapshot(b, db), 'remotes', 1).get('tx'), 'nothing radio-specific reaches B')
             a.send(['voicechannel proximity', 'key B down'], .5)
             (bx, by, bz), _ = B.camera()
-            a.send(['hover %.5f %.5f %.5f %.5f 0' % (bx+1000, by, bz, heading)], 2)
+            a.send(['hover %.5f %.5f %.5f %.5f 0 firm' % (bx+1000, by, bz, heading)], 2)
             far = wait_for(b, db, lambda s: entry(s, 'speakers', 1).get('rms', 0) > .005)
             fs = entry(far, 'speakers', 1); t = fs['tone']
             check(fs['channel'] == 0 and fs['radio'] > .8 and fs['prox'] == 0, 'beyond hearing range the proximity voice still turns into the radio sound')
@@ -87,7 +87,7 @@ try:
         tones = speaker['tone']
         check(tones[1] > .02 and tones[0] < .25*tones[1] and tones[2] < .25*tones[1], 'live synthetic signal is band-limited at B')
         (bx, by, bz), _ = B.camera()
-        a.send(['hover %.5f %.5f %.5f %.5f 0' % (bx+1000, by, bz, heading)], 2)
+        a.send(['hover %.5f %.5f %.5f %.5f 0 firm' % (bx+1000, by, bz, heading)], 2)
         (ax, ay, az), _ = A.camera(); (bx, by, bz), _ = B.camera()
         check(math.dist((ax, ay, az), (bx, by, bz)) > 900, 'process memory confirms large separation')
         far = snapshot(b, db); fs = entry(far, 'speakers', 1)

diff --git a/proxy/game.h b/proxy/game.h
@@ -21,7 +21,7 @@ bool GameBridgeAdvanceNow(unsigned panelId);       // tells the panel's Bridge (
 bool GameDispatchTargetNow(unsigned panelId, bool any = false);         // runs the game's target dispatcher (exe+0xC24F0) for the panel's target when it is of a type with no dedicated event; render thread only
 bool GameCableOffNow(unsigned id);                  // render thread only; the game's own cable power-off (exe+0x175E50: requested level to 0, the glow fades)
 void GameEnqueueCableOff(unsigned id);                // development command
-void GameHover(float x, float y, float z, float yaw, float pitch, unsigned seconds);   // like GameTeleport, but the player is held there (about every ms) for up to `seconds`: for places with no collision
+void GameHover(float x, float y, float z, float yaw, float pitch, unsigned seconds, bool firm = false);   // like GameTeleport, but the player is held there (about every ms) for up to `seconds`: for places with no collision; it lets go when the game resets the player (a sideways jump), unless firm (a test held far from any ground)
 void GameHoverOff();
 void GameTeleport(float x, float y, float z, float yaw, float pitch);   // camera position (eye) and angles, held for a few frames like the tp command
 // Render-thread seat hold: uses camera-eye coordinates just like teleport.
